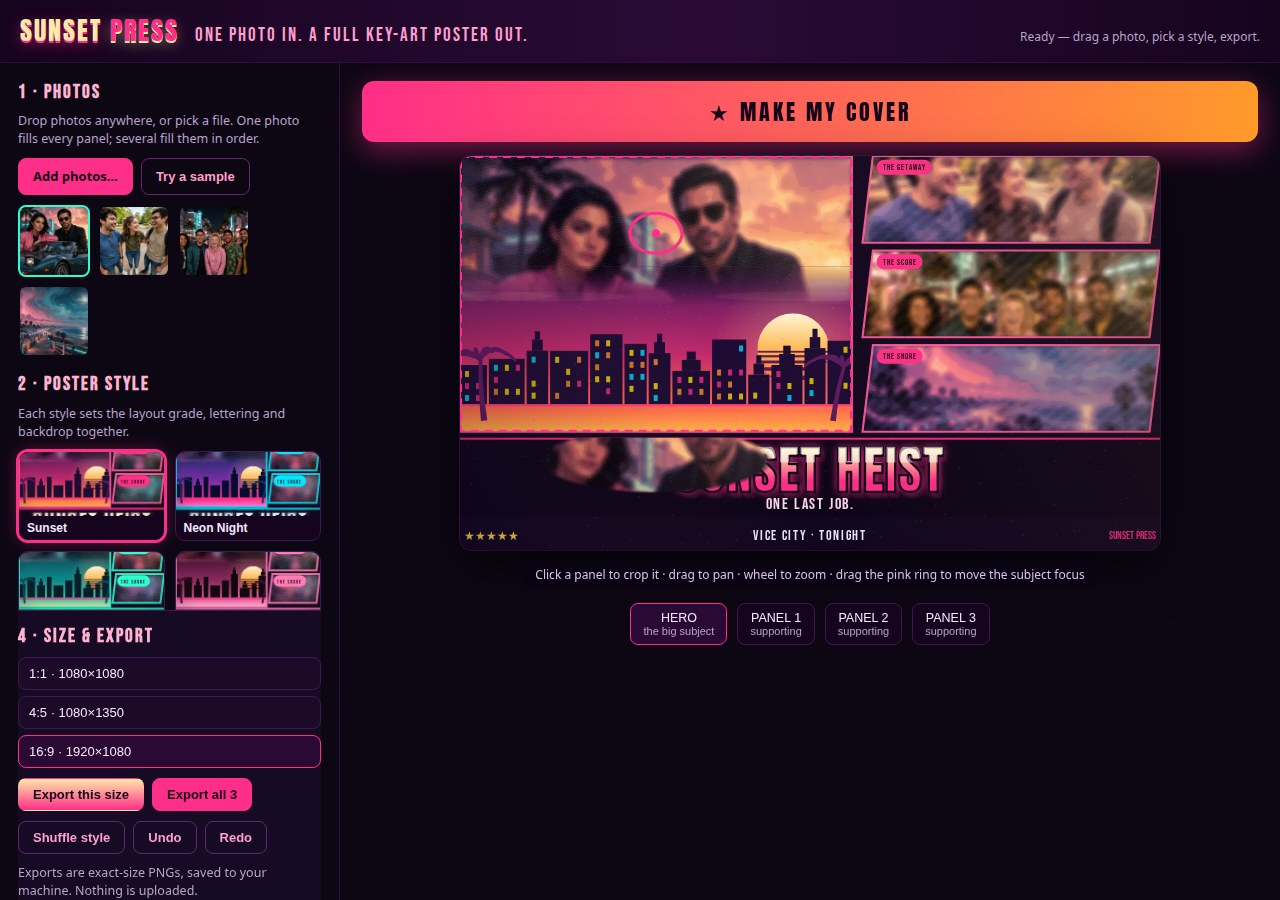
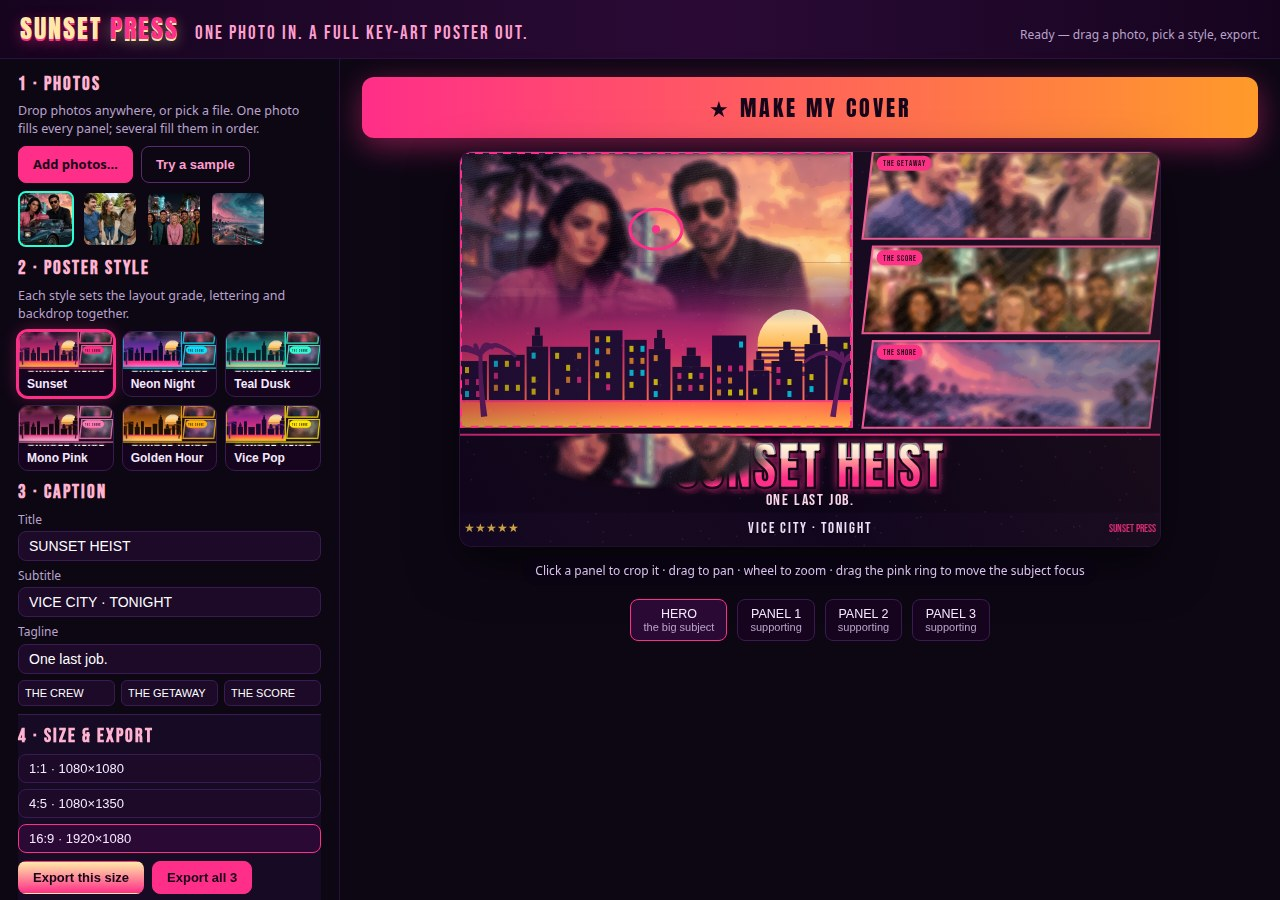
Fix round 3: Claude REVISI — serif verified absent, portrait divider + mask + dead space fixed, editor sections 1-4 all visible
- Item 1 (serif): VERIFIED ABSENT — grep over app/ finds zero serif
  families and zero 'EST. 2026'; all cover text is Anton/Bebas Neue.
  Pinned the last plain sans-serif (footer stars, render.js:381) to
  Bebas Neue so no text can fall back to a generic face.
- Item 2: removed the 2px accent rule at the top of the footer mini-
  skyline — it read as a stray divider under the title (portrait).
- Item 3: hero mask fade lengthened 14% -> 22% of hero height; title
  breakout mask feather widened 8% -> 20% (chin over 'S' melts now);
  hero neon frame drawn on top/left/right only, bottom left open so
  no hard line crosses the fade zone.
- Item 4: portrait footer rides up to the title band and its skyline
  runs to the canvas bottom (shorter buildings so it reads as a base,
  not a wall); wide footer meets the title band, closing the dark
  strip under the title.
- Item 5: the sticky bottom export bar was pulled up to the viewport
  bottom and COVERED the whole Caption section (editor showed 1, 2,
  4). Sticky removed; panel compacted (3-col style cards, 56px
  thumbs, tighter spacing) so all four sections fit a 900px viewport
  with size tabs + Export buttons visible without scrolling
  (measured: Export buttons end at y=896 of 900).

diff --git a/app/style.css b/app/style.css
@@ -14,7 +14,7 @@ body {
 }
 .topbar {
   display: flex; align-items: baseline; gap: 16px;
-  padding: 12px 20px;
+  padding: 10px 20px;
   border-bottom: 1px solid #2a1040;
   background: linear-gradient(90deg, #16041f, #2a0a35 55%, #16041f);
 }
@@ -29,21 +29,25 @@ body {
 .top-status { margin-left: auto; font-size: 12px; color: #b9a3cc; }
 
 .layout { display: grid; grid-template-columns: 340px 1fr; gap: 0; align-items: start; }
-.panel { padding: 16px 18px 24px; border-right: 1px solid #2a1040; }
-.panel section { margin-bottom: 14px; }
-/* Export bar pinned to the viewport bottom (fix round 2, item 10):
- * the size tabs and Export PNG must be visible without scrolling. */
+.panel { padding: 12px 18px 12px; border-right: 1px solid #2a1040; }
+.panel section { margin-bottom: 8px; }
+/* Export bar (fix round 3, item 5): the old `position: sticky;
+ * bottom: 0` pulled this section up to the viewport bottom and
+ * COVERED the whole Caption section — the editor screenshot showed
+ * 1 · Photos, 2 · Poster style, then 4 · Size & export, with the
+ * caption inputs unreachable. Sticky is gone; the panel below is
+ * compacted so all four sections fit a 900 px viewport in normal
+ * flow and Export stays visible without scrolling. */
 .panel section.export {
-  position: sticky; bottom: 0; z-index: 5;
   background: #160a24; border-top: 1px solid #3a1a52;
-  padding-top: 12px; margin-bottom: 0;
+  padding-top: 8px; margin-bottom: 0;
 }
 .panel h2 {
   font-family: 'Bebas Neue', sans-serif; font-size: 19px; letter-spacing: 2px;
-  color: #ffb3d1; margin: 0 0 6px;
+  color: #ffb3d1; margin: 0 0 4px;
 }
-.hint { color: #b9a3cc; font-size: 12.5px; margin: 0 0 10px; }
-.row { display: flex; gap: 8px; flex-wrap: wrap; margin-bottom: 10px; }
+.hint { color: #b9a3cc; font-size: 12.5px; margin: 0 0 8px; }
+.row { display: flex; gap: 8px; flex-wrap: wrap; margin-bottom: 8px; }
 .btn {
   appearance: none; border: 1px solid #ff2e88; background: #ff2e88; color: #16041a;
   font-weight: 700; font-size: 13px; padding: 8px 14px; border-radius: 8px; cursor: pointer;
@@ -55,37 +59,37 @@ body {
 
 .thumbs { display: flex; gap: 8px; flex-wrap: wrap; }
 .thumbs img {
-  width: 72px; height: 72px; object-fit: cover; border-radius: 8px; cursor: pointer;
+  width: 56px; height: 56px; object-fit: cover; border-radius: 8px; cursor: pointer;
   border: 2px solid transparent;
 }
 .thumbs img.sel { border-color: #ff2e88; }
 .thumbs img.used { outline: 2px solid #2affd5; outline-offset: -2px; }
 
-.styles { display: grid; grid-template-columns: 1fr 1fr; gap: 10px; }
+.styles { display: grid; grid-template-columns: 1fr 1fr 1fr; gap: 8px; }
 .style-card {
   border: 1px solid #3a1a52; border-radius: 10px; overflow: hidden; cursor: pointer;
   background: #16041f; padding: 0; text-align: left; color: inherit;
 }
 .style-card.on { border-color: #ff2e88; box-shadow: 0 0 0 2px #ff2e88, 0 0 18px rgba(255, 46, 136, .35); }
-.style-card canvas { display: block; width: 100%; height: 64px; object-fit: cover; }
+.style-card canvas { display: block; width: 100%; height: 40px; object-fit: cover; }
 .style-card span { display: block; padding: 5px 8px; font-size: 12px; font-weight: 700; }
 
-.field { display: block; font-size: 12px; color: #b9a3cc; margin-bottom: 8px; }
+.field { display: block; font-size: 12px; color: #b9a3cc; margin-bottom: 6px; }
 .field input {
-  display: block; width: 100%; margin-top: 3px; padding: 8px 10px;
+  display: block; width: 100%; margin-top: 3px; padding: 6px 10px;
   background: #1c0a28; border: 1px solid #3a1a52; border-radius: 8px; color: #fff;
   font-size: 14px;
 }
 .field input:focus { outline: 2px solid #ff2e88; border-color: #ff2e88; }
 .labels { display: grid; grid-template-columns: 1fr 1fr 1fr; gap: 6px; }
 .labels input {
-  width: 100%; padding: 6px 8px; background: #1c0a28; border: 1px solid #3a1a52;
-  border-radius: 6px; color: #fff; font-size: 12px;
+  width: 100%; padding: 6px 6px; background: #1c0a28; border: 1px solid #3a1a52;
+  border-radius: 6px; color: #fff; font-size: 11px;
 }
-.sizes { display: flex; flex-direction: column; gap: 6px; margin-bottom: 10px; }
+.sizes { display: flex; flex-direction: column; gap: 6px; margin-bottom: 8px; }
 .sizes button {
   text-align: left; background: #1c0a28; color: #f5e9ff; border: 1px solid #3a1a52;
-  border-radius: 8px; padding: 8px 10px; cursor: pointer; font-size: 13px;
+  border-radius: 8px; padding: 6px 10px; cursor: pointer; font-size: 13px;
 }
 .sizes button.on { border-color: #ff2e88; background: #2a0a35; }
 

diff --git a/app/src/render.js b/app/src/render.js
@@ -28,7 +28,9 @@ function spLayoutFor(sizeName) {
         { x: 0.635, y: 0.37, w: 0.365, h: 0.16 },
       ],
       title: { x: 0, y: 0.545, w: 1, h: 0.22 },
-      footer: { x: 0, y: 0.80, w: 1, h: 0.09 },
+      // Fix round 3, item 4: the footer rides up to meet the title
+      // band (was 0.80), so the dark strip between them is gone.
+      footer: { x: 0, y: 0.77, w: 1, h: 0.09 },
     };
   }
   if (sizeName === 'wide') {
@@ -40,7 +42,9 @@ function spLayoutFor(sizeName) {
         { x: 0.575, y: 0.48, w: 0.425, h: 0.22 },
       ],
       title: { x: 0, y: 0.715, w: 1, h: 0.20 },
-      footer: { x: 0, y: 0.93, w: 1, h: 0.07 },
+      // Fix round 3, item 4: the footer meets the title band (was
+      // 0.93), so the dark strip under the title on the right is gone.
+      footer: { x: 0, y: 0.915, w: 1, h: 0.085 },
     };
   }
   return {
@@ -166,7 +170,10 @@ function spMiniSkyline(ctx, x, y, w, h, accent) {
   let bx = x;
   while (bx < x + w) {
     const bw = w * (0.04 + rnd() * 0.06);
-    const bh = h * (0.35 + rnd() * 0.6);
+    // Shorter buildings (fix round 3, item 4): the strip now runs to
+    // the bottom of the canvas, so the old 0.35–0.95 range would build
+    // a wall; 0.22–0.55 reads as a city base under the footer text.
+    const bh = h * (0.22 + rnd() * 0.33);
     ctx.fillRect(bx, y + h - bh, bw, bh);
     for (let wy = y + h - bh + 4; wy < y + h - 3; wy += 7) {
       if (rnd() > 0.5) {
@@ -179,9 +186,9 @@ function spMiniSkyline(ctx, x, y, w, h, accent) {
     }
     bx += bw + 2;
   }
-  ctx.fillStyle = accent;
-  ctx.globalAlpha = 0.8;
-  ctx.fillRect(x, y, w, 2);
+  // Fix round 3, item 2: the 2 px accent rule that used to run across
+  // the top of this strip is gone — it read as a stray divider line
+  // under the title, with no function.
   ctx.restore();
 }
 
@@ -256,11 +263,19 @@ function spRenderPoster(state, sizeName, scale, imgMap) {
     } else {
       ctx.drawImage(heroPainted, heroR.x, heroR.y);
     }
-    // Thin neon frame around the hero.
+    // Thin neon frame around the hero — top, left and right only
+    // (fix round 3, item 3): the frame's bottom edge crossed the fade
+    // zone as a hard line exactly where the shoulders melt into the
+    // skyline. Leaving the bottom open lets the photo dissolve.
     ctx.strokeStyle = style.gutter;
     ctx.globalAlpha = 0.85;
     ctx.lineWidth = Math.max(2, W * 0.003);
-    ctx.strokeRect(heroR.x, heroR.y, heroR.w, heroR.h);
+    ctx.beginPath();
+    ctx.moveTo(heroR.x, heroR.y + heroR.h);
+    ctx.lineTo(heroR.x, heroR.y);
+    ctx.lineTo(heroR.x + heroR.w, heroR.y);
+    ctx.lineTo(heroR.x + heroR.w, heroR.y + heroR.h);
+    ctx.stroke();
     ctx.globalAlpha = 1;
   }
 
@@ -375,10 +390,16 @@ function spRenderPoster(state, sizeName, scale, imgMap) {
   // on a faint skyline so the bottom is never empty black (fix item 8).
   const fR = R(L.footer);
   if (sizeName === 'portrait') {
-    spMiniSkyline(ctx, fR.x, fR.y, fR.w, fR.h, style.accent);
+    // Fix round 3, item 4: the skyline runs from the footer to the
+    // very bottom of the canvas, so no dead black band is left under
+    // the footer — the footer text sits on the skyline.
+    spMiniSkyline(ctx, fR.x, fR.y, fR.w, H - fR.y, style.accent);
   }
   const fy = fR.y + fR.h / 2;
-  ctx.font = Math.round(Math.max(12, fR.h * 0.32)) + 'px sans-serif';
+  // Bebas Neue for the stars too (fix round 3, item 1: the last
+  // plain `sans-serif` in the renderer — pinned so no text on any
+  // cover can fall back to a generic face a reviewer might misread).
+  ctx.font = Math.round(Math.max(12, fR.h * 0.32)) + 'px "Bebas Neue", sans-serif';
   ctx.fillStyle = '#ffcf4d';
   ctx.textAlign = 'left';
   ctx.textBaseline = 'middle';

diff --git a/app/src/paint.js b/app/src/paint.js
@@ -185,21 +185,23 @@ function spPaintPhoto(img, rampName, W, H, crop, strength) {
   return work;
 }
 
-/* Full-bleed hero mask (fix round 2): the photo fills the hero to all
- * four edges and fades out vertically — opaque to 40% of the height,
- * gone by 54% — so the subjects' heads and shoulders sit over the
- * sunset and the car hood below never shows. No ellipse, so the hero
- * reads as a poster photo, not an oval sticker. */
+/* Full-bleed hero mask (fix round 2, longer fade in fix round 3,
+ * item 3): the photo fills the hero to all four edges and fades out
+ * vertically — opaque to 40% of the height, gone by 62% — so the
+ * subjects' heads and shoulders sit over the sunset and the car hood
+ * below never shows. The longer fade (was 14% of the height) melts
+ * the photo out instead of stepping across a diagonal shoulder.
+ * No ellipse, so the hero reads as a poster photo, not a sticker. */
 function spHeroMask(w, h) {
   const mask = spCanvas(w, h);
   const ctx = mask.getContext('2d');
   ctx.fillStyle = '#fff';
   ctx.fillRect(0, 0, w, h * 0.40);
-  const fade = ctx.createLinearGradient(0, h * 0.40, 0, h * 0.54);
+  const fade = ctx.createLinearGradient(0, h * 0.40, 0, h * 0.62);
   fade.addColorStop(0, '#fff');
   fade.addColorStop(1, 'rgba(255, 255, 255, 0)');
   ctx.fillStyle = fade;
-  ctx.fillRect(0, h * 0.40, w, h * 0.14);
+  ctx.fillRect(0, h * 0.40, w, h * 0.22);
   return mask;
 }
 
@@ -216,11 +218,13 @@ function spFocusMask(W, H, focus, rx, ry) {
   ctx.translate(cx, cy);
   ctx.scale(rx, ry);
   const grad = ctx.createRadialGradient(0, 0, 0, 0, 0, 1);
-  // Fully opaque across 92% of the radius (fix round 2, item 3: the hero
-  // must read as a solid photo, not a fading veil), with only a short
-  // feather at the edge.
+  // Fully opaque across 80% of the radius (fix round 3, item 3: the
+  // old 92% stop left only an 8% feather, which cut a hard step
+  // across the chin where the title breakout dips over the letters),
+  // with a 20% feather at the edge so the breakout melts into the
+  // title instead of slicing across a face.
   grad.addColorStop(0, 'rgba(255,255,255,1)');
-  grad.addColorStop(0.92, 'rgba(255,255,255,1)');
+  grad.addColorStop(0.80, 'rgba(255,255,255,1)');
   grad.addColorStop(1, 'rgba(255,255,255,0)');
   ctx.fillStyle = grad;
   ctx.fillRect(-1, -1, 2, 2);
